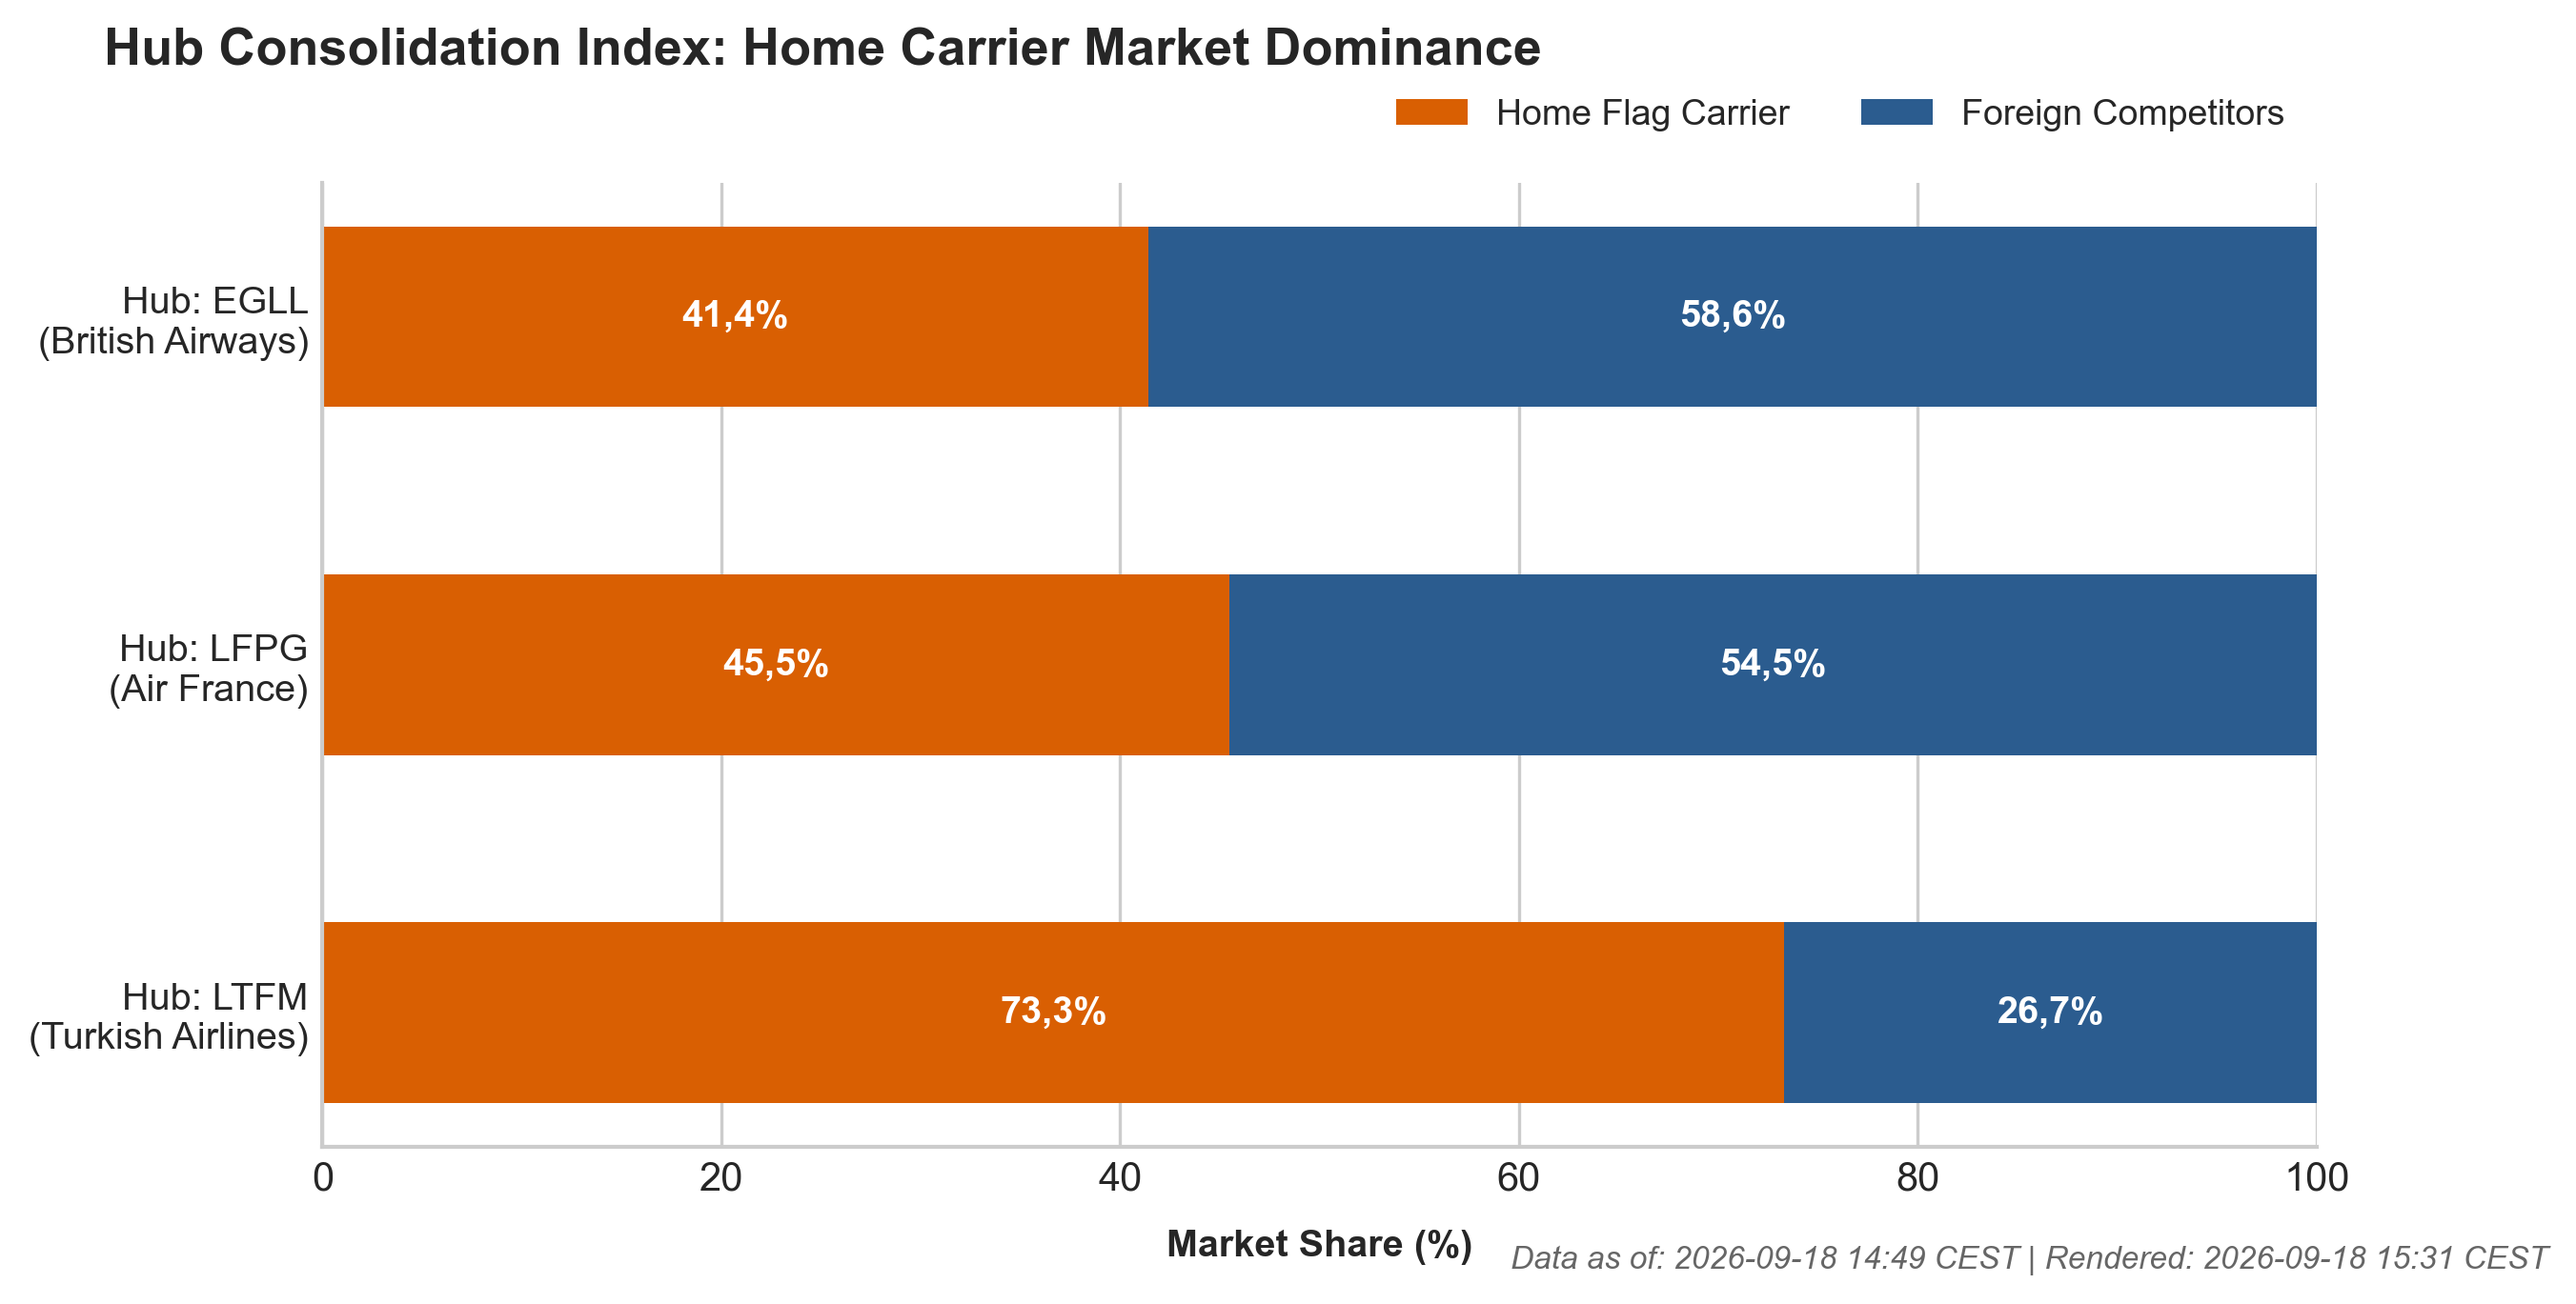
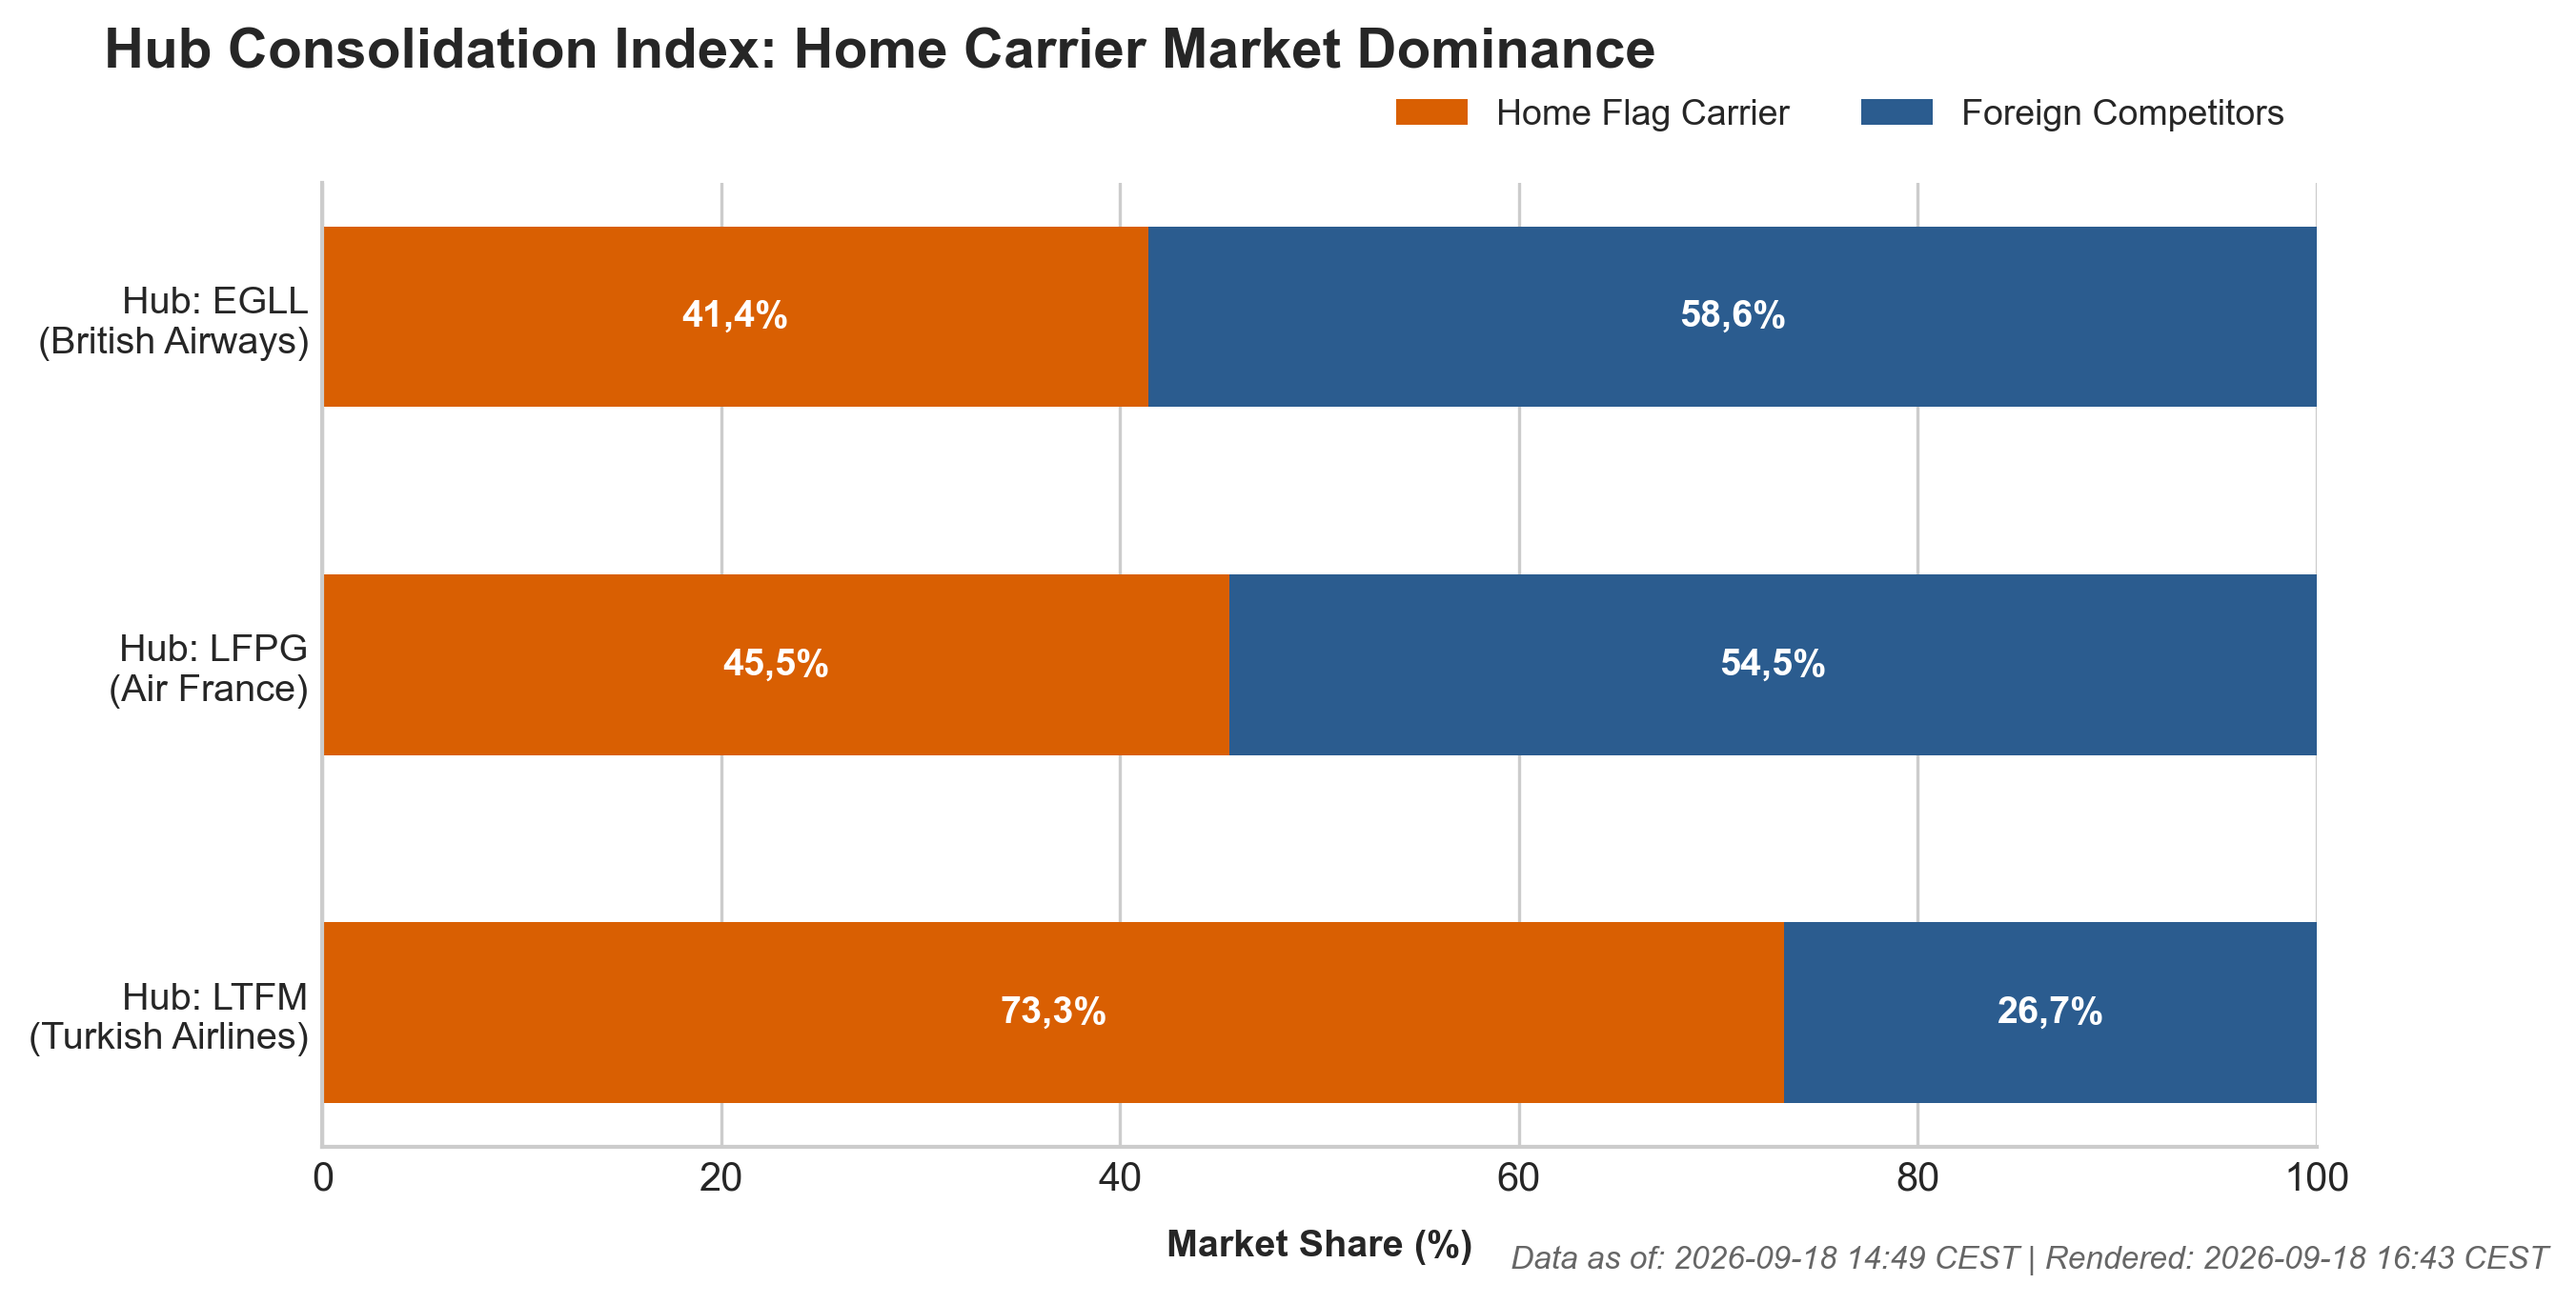
feat(viz): add class helper function _setup_figure_header

Changed region(s): [[0.0311, 0.0, 0.6526, 0.0614], [0.9323, 0.9511, 0.9634, 0.9817]]

diff --git a/utils/data_analysis.py b/utils/data_analysis.py
@@ -80,6 +80,24 @@ class AirlineVisualizer:
         ax.spines["left"].set_color(left_color)
         ax.spines["bottom"].set_color(bottom_color)
 
+    @staticmethod
+    def _setup_figure_header(
+            fig: plt.Figure,
+            title: str,
+            fontsize: int = 14,
+            x: float = 0.04,
+            y: float = 0.98
+    ):
+        """Applies a standardized executive top-level title to a figure canvas."""
+        fig.suptitle(
+            title,
+            fontsize = fontsize,
+            fontweight = 'bold',
+            x = x,
+            ha = 'left',
+            y = y,
+        )
+
 
     def plot_registration_coverage(self, df: pd.DataFrame, filename: str = "registration_coverage.png", data_as_of: str | None = None) -> Path:
         """Plot donut + bar chart of mapped vs UNKNOWN_REG counts."""
@@ -96,7 +114,7 @@ class AirlineVisualizer:
         fig, (ax1, ax2) = plt.subplots(1, 2, figsize = (12, 5))
 
         # Overall Figure Title
-        fig.suptitle("Aircraft Registration Mapping Coverage Audit", fontsize = 14, fontweight = 'bold', y = 0.95)
+        self._setup_figure_header(fig, "Aircraft Registration Mapping Coverage Audit", y = 0.95)
 
         # Donut Chart
         ax1.pie(
@@ -158,7 +176,7 @@ class AirlineVisualizer:
         fig, ax1 = plt.subplots(figsize=(10, 5))
 
         # Overall Figure Title
-        fig.suptitle("Live Fleet Altitude Distribution Audit", fontsize = 14, fontweight = 'bold', y = 0.95)
+        self._setup_figure_header(fig, "Live Fleet Altitude Distribution Audit", y = 0.95)
 
         # Primary Axis: Histogram (Counts)
         ax1.hist(
@@ -263,14 +281,8 @@ class AirlineVisualizer:
         )
 
         # Titles and Labels
-        fig.suptitle(
-            f"Top {top_n} Active Airlines by Flight Count",
-            fontsize = 14,
-            fontweight = 'bold',
-            x = 0.5,
-            ha = 'center',
-            y = 0.98
-        )
+        self._setup_figure_header(fig, f"Top {top_n} Active Airlines by Flight Count", x = 0.5, y = 0.98)
+
         # ax.set_title(
         #   f"Key Insight: {top_airline_name} leads operating volume with {formatted_share} total market share in active telemetry",
         #    fontsize = 10,
@@ -374,14 +386,7 @@ class AirlineVisualizer:
             axes = [axes]
 
         # Executive Header Alignment
-        fig.suptitle(
-            f"Top {top_n} Airlines Market Share (%) Across Target Hub Airports",
-            fontsize = 14,
-            fontweight = 'bold',
-            x = 0.04,
-            ha = 'left',
-            y = 0.98
-        )
+        self._setup_figure_header(fig, f"Top {top_n} Airlines Market Share (%) Across Target Hub Airports", x = 0.04, y = 0.98)
 
         # Plot: Loop through each hub subplot axis and render horizontal bar charts
         for ax, hub in zip(axes, hubs):
@@ -500,14 +505,7 @@ class AirlineVisualizer:
         if len(hubs) == 1:
             axes = [axes]
 
-        fig.suptitle(
-            "Airline Market Share Concentration Across Target Hubs",
-            fontsize = 14,
-            fontweight = 'bold',
-            x = 0.04,
-            ha = 'left',
-            y = 0.98
-        )
+        self._setup_figure_header(fig, "Airline Market Share Concentration Across Target Hubs")
 
         # Sequential blue shades to differentiate secondary carriers (Airlines 2-4)
         SECONDARY_BLUE_GRADIENT = ["#2b5c8f", "#4f7bb0", "#7ba3cd"]
@@ -657,14 +655,8 @@ class AirlineVisualizer:
         )
 
         # Titles & Labels
-        fig.suptitle(
-            "Hub Consolidation Index: Home Carrier Market Dominance",
-            fontsize = 13,
-            fontweight = 'bold',
-            x = 0.04,
-            ha = 'left',
-            y = 0.98
-        )
+        self._setup_figure_header(fig, "Hub Consolidation Index: Home Carrier Market Dominance")
+
         ax.set_yticks(y_pos)
         ax.set_yticklabels(
             [f"Hub: {row['hub']}\n({row['home_carrier']})" for _, row in summary_df.iterrows()],
